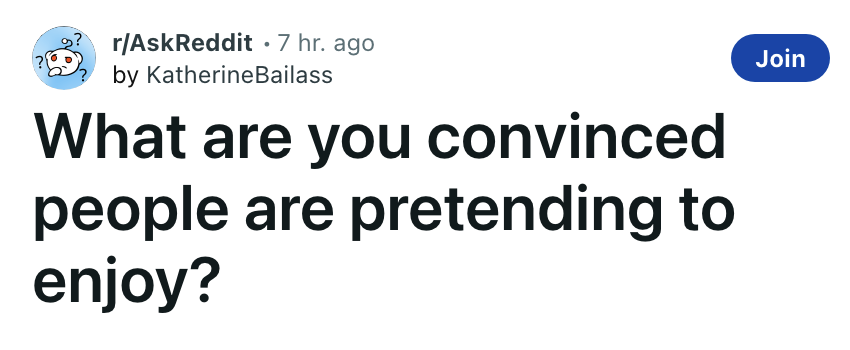
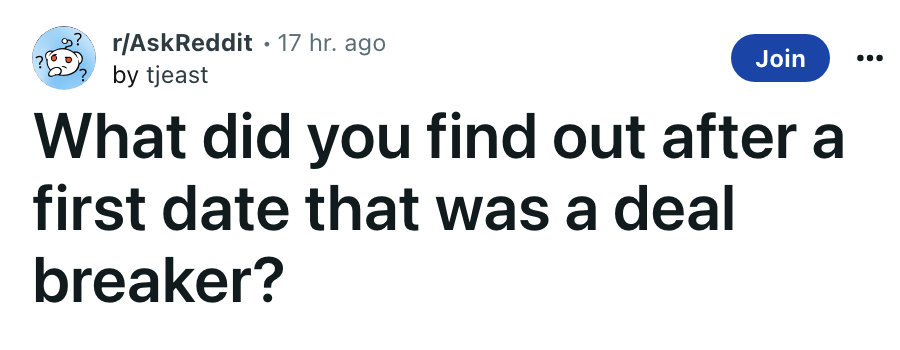
added comments ss

diff --git a/screenshot.py b/screenshot.py
@@ -3,6 +3,7 @@ from selenium import webdriver
 from selenium.webdriver.chrome.service import Service as ChromeService
 from PIL import Image
 import os
+import time
 
 # Reddit API credentials
 reddit = praw.Reddit(
@@ -12,7 +13,7 @@ reddit = praw.Reddit(
 )
 
 # Get the post details
-post = reddit.submission(id='16fie14')
+post = reddit.submission(id='16fbfz5')
 
 # Configure Chrome options (optional)
 chrome_options = webdriver.ChromeOptions()
@@ -34,7 +35,7 @@ screenshot = Image.open('assets/screenshots/reddit_post_screenshot.png')
 # You'll need to adjust these coordinates based on the specific layout of the Reddit post page
 left = 0  # Adjust this value as needed
 top = 150   # Adjust this value as needed
-right = 850  # Adjust this value as needed
+right = 900  # Adjust this value as needed
 bottom = 500  # Adjust this value as needed
 
 # Crop the screenshot
@@ -46,6 +47,23 @@ cropped_image.save('assets/screenshots/reddit_question_username.png')
 # Delete the original screenshot file if it exists
 if os.path.exists('assets/screenshots/reddit_post_screenshot.png'):
     os.remove('assets/screenshots/reddit_post_screenshot.png')
+
+comment_urls = [
+    "https://www.reddit.com/r/AskReddit/comments/16fbfz5/comment/k00qpz9",
+    "https://www.reddit.com/r/AskReddit/comments/16fbfz5/comment/k016kud",
+    "https://www.reddit.com/r/AskReddit/comments/16fbfz5/comment/k01b3lq",
+    "https://www.reddit.com/r/AskReddit/comments/16fbfz5/comment/k0155fd",
+]
+
+# Loop through the comment URLs and capture screenshots
+for i, comment_url in enumerate(comment_urls, start=1):
+    # Navigate to the comment URL
+    driver.get(comment_url)
+    time.sleep(5)
+
+    # Capture a screenshot of the comment page
+    screenshot_filename = f'assets/screenshots/comment_{i}.png'
+    driver.save_screenshot(screenshot_filename)
 
 # Close the Chrome driver
 driver.quit()
